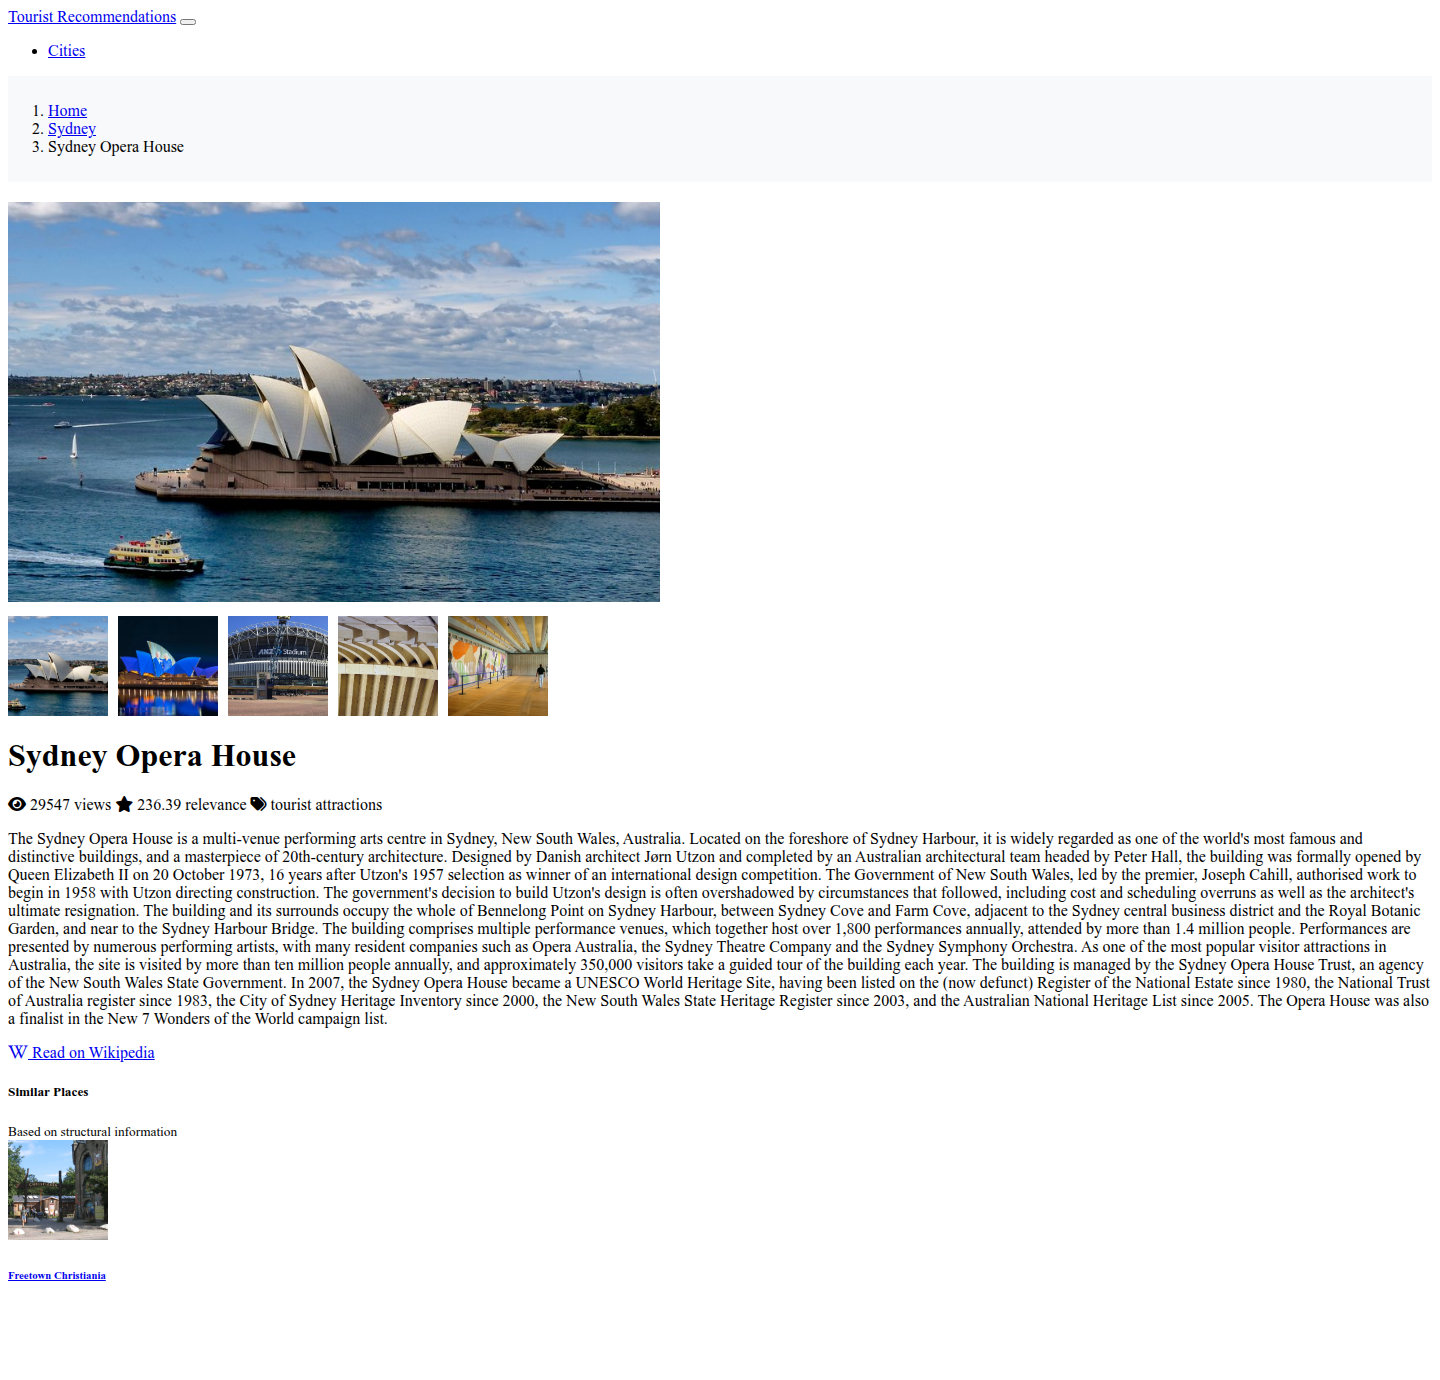
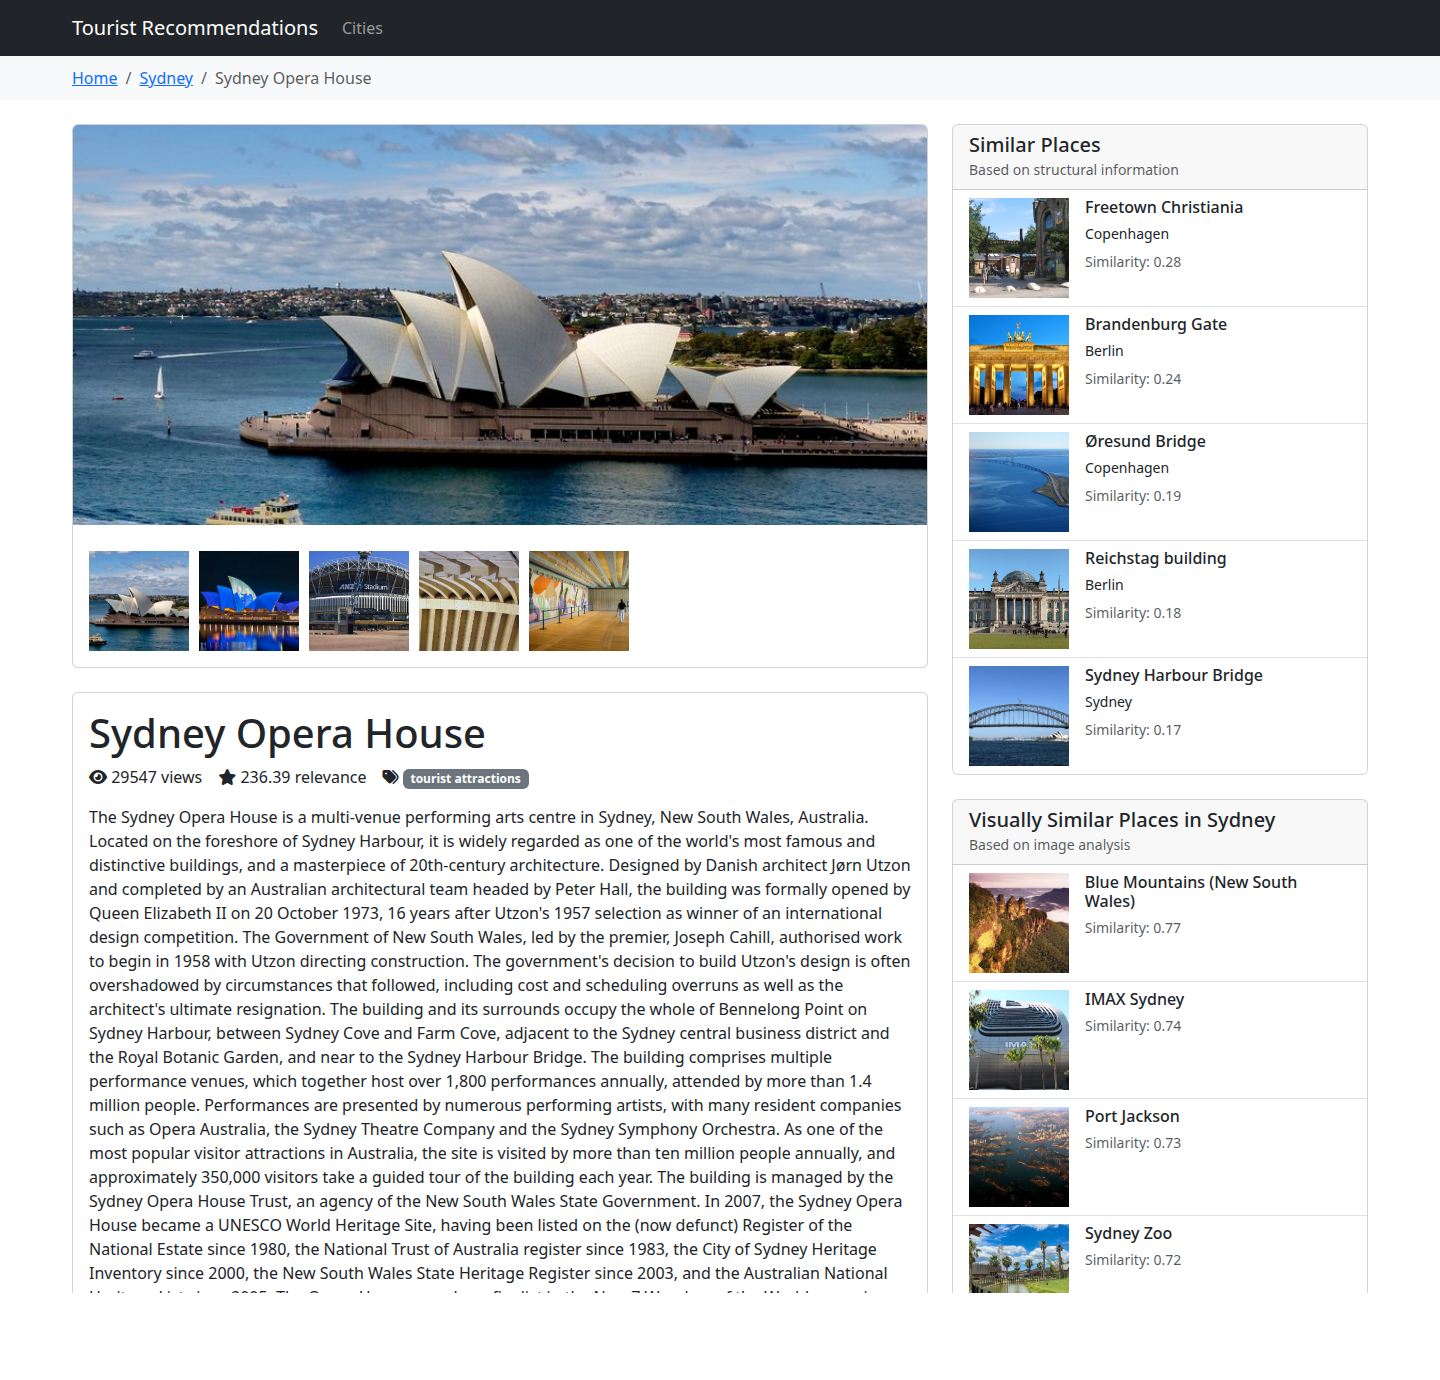
Readme update
Describe the freshness pipeline as built rather than comparing alternatives,
and retake the place-page screenshot with the stylesheet loaded.

diff --git a/README.md b/README.md
@@ -134,61 +134,37 @@ help.
 
 ## Keeping the snapshot fresh
 
-The collected data is a point-in-time snapshot of pages that keep changing, so
-two scheduled jobs keep it honest:
+The collected data is a point-in-time snapshot of pages that keep changing.
+Two scheduled jobs keep it current:
 
 ```bash
 python -m tourist.sync.cli detect     # compare stored revision ids against Wikipedia
 python -m tourist.sync.cli consume    # apply pending change events
-python -m tourist.sync.cli status     # queue depth and stale row count
+python -m tourist.sync.cli status     # queue depth, dead-lettered count, stale rows
 ```
 
 `detect` reads `last_revision_id` for every tracked page and asks the API for
 the current one, batched 50 ids per request. Only differences are published, so
 a steady state costs a handful of requests rather than a re-scrape. Each
-difference becomes an event on a Redis stream; `consume` applies it, records the
-new revision and stamps `stale_since`, which is what marks derived results as
-due for recomputation. Each analysis job clears the flag when it finishes, so
-`sync.cli status` shows how much of the snapshot is waiting on a recompute.
+difference becomes an event on a Redis stream. `consume` applies it, records the
+new revision and stamps `stale_since`, which marks derived results as due for
+recomputation; each analysis job clears the flag when it finishes.
 
-The two run on their own cadence — detection is cheap and frequent,
-recomputation is slow and expensive — and the stream decouples them so a slow
-recompute never blocks or drops a detection cycle. ### Why Redis Streams
-
-Kafka's value is partitioned throughput, long retention and many independent
-consumer groups; this pipeline tracks a few hundred pages and emits tens of
-events a day, so that capacity would be paid for in operational weight and not
-used. RabbitMQ is the closer call and would supply dead-letter exchanges and
-delivery counts natively rather than built from `XPENDING`.
-
-Redis Streams win here because the queue is not the source of truth. Events are
-derived by comparing `last_revision_id` in PostgreSQL against Wikipedia, and
-that column only advances once a consumer applies the change, so a lost event is
-simply re-detected on the next cycle: losing the whole stream costs one
-detection interval, not data. Both handlers are idempotent in SQL as well, so
-the deduplication set is an optimisation rather than a correctness requirement.
-With the durability bar that low, consumer groups already provide what is
-needed, and Redis is here for the cache regardless.
-
-The trade-off is deliberate: swapping in RabbitMQ means rewriting `broker.py`
-and nothing else, because the retry and dead-letter policy lives in the
-consumer.
+Events flow through a Redis Streams consumer group (`XREADGROUP` / `XACK`).
+Detection and recomputation run on their own cadence, so a slow recompute never
+blocks or drops a detection cycle. Events are derived by comparing PostgreSQL
+against Wikipedia and the stored revision only advances once a consumer applies
+the change, so a lost event is re-detected on the next cycle.
 
 Delivery is at least once, so the consumer is idempotent: events carry a
 `type:page_id:revision_id` key and an already-applied change is acknowledged
-without being reapplied. A new revision of the same page has a different key and
-is applied normally.
+without being reapplied. Each event commits in its own transaction. An entry
+that keeps failing is retried until `STREAM_MAX_DELIVERIES` and then parked on
+a dead-letter stream with the reason. Entries a crashed consumer read but never
+acknowledged are reclaimed with `XAUTOCLAIM` after `STREAM_IDLE_RECLAIM_MS`.
 
-Each event commits in its own transaction, so one failure neither rolls back
-its neighbours nor stalls the batch. An entry that keeps failing is retried
-until `STREAM_MAX_DELIVERIES` and then parked on a dead-letter stream with the
-reason — without that, a single unprocessable event is a poison message that
-blocks the queue forever. `sync.cli status` reports queue depth, dead-lettered
-count and stale rows.
-
-In compose this runs as the `detector` and `refresher` services. A real
-deployment can drop both and call the same commands from cron or a Kubernetes
-CronJob; nothing depends on the supervisor loop.
+In compose this runs as the `detector` and `refresher` services; the same
+commands can be driven from cron or a Kubernetes CronJob instead.
 
 ## Caching
 
